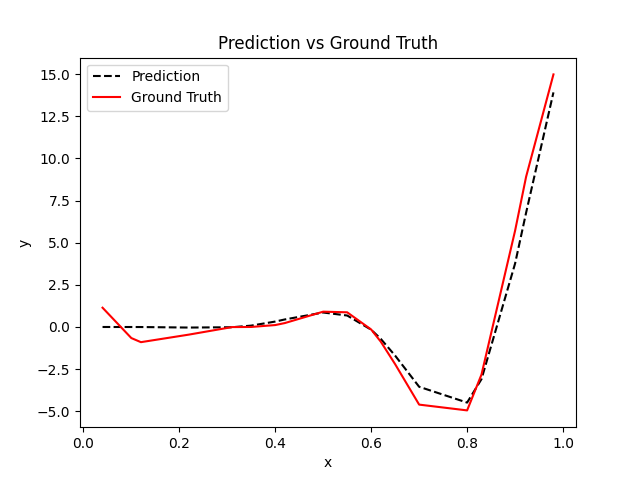
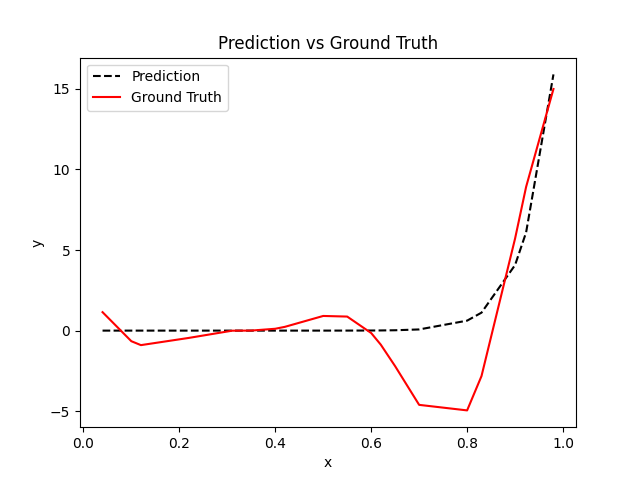
Trial

diff --git a/prediction_vs_truth.py b/prediction_vs_truth.py
@@ -139,10 +139,9 @@ y_true = df['output']
 x = df['input1']
 
 # declare the chromosome and the variable dictionary
-chromosome = ['*', '(X2)', '(sin)', '*', '-', '+', '(X2)', '(X2)', '*', '-', '(X2)', '?', '(sin)', '?', 'a', 'a', 'a', 'a', '?', '?', 'a', 'a', 'a', 'a', 'a', '?', '?', '0', '9', '3', '4', '7', '5', '3', '10', '4', '2', '4', '3', '3', '4']
+chromosome =  ['*', '(X2)', '(X2)', '?', '(X2)', '(X2)', '*', 'a', 'a', '/', '?', 'a', 'a', 'a', '?', '?', 'a', 'a', '?', 'a', 'a', '?', '?', '?', '?', '?', 'a', '12', '12', '12', '9', '8', '0', '10', '6', '4', '3', '11', '8', '7', '1']
 term_set = ['a']
-const_list = [1.9907733343148943, 11.454457419645728, 10.220522956304762, 2.5186616881399333, 2.678209163314668, 10.394952859605853, 6.198823321013686, 8.37558978215862, 10.600249168174287, 7.502779881454574, 2.6961058577195915, 5.254872366367976, 6.875852467120374, 1.0653453543681537]
-
+const_list = [4.685922623864764, 3.621198508229393, 6.310952937888719, 13.758229716674169, 6.266619607107305, 7.984578970326233, 9.591361182402702, 11.752828413603464, 10.138334319508553, 7.976792186159131, 7.915367723838631, 5.949970224872283, 10.919530299095692, 1.6695321663545166]
 y_true = df['output']
 
 # Perform Prediction
